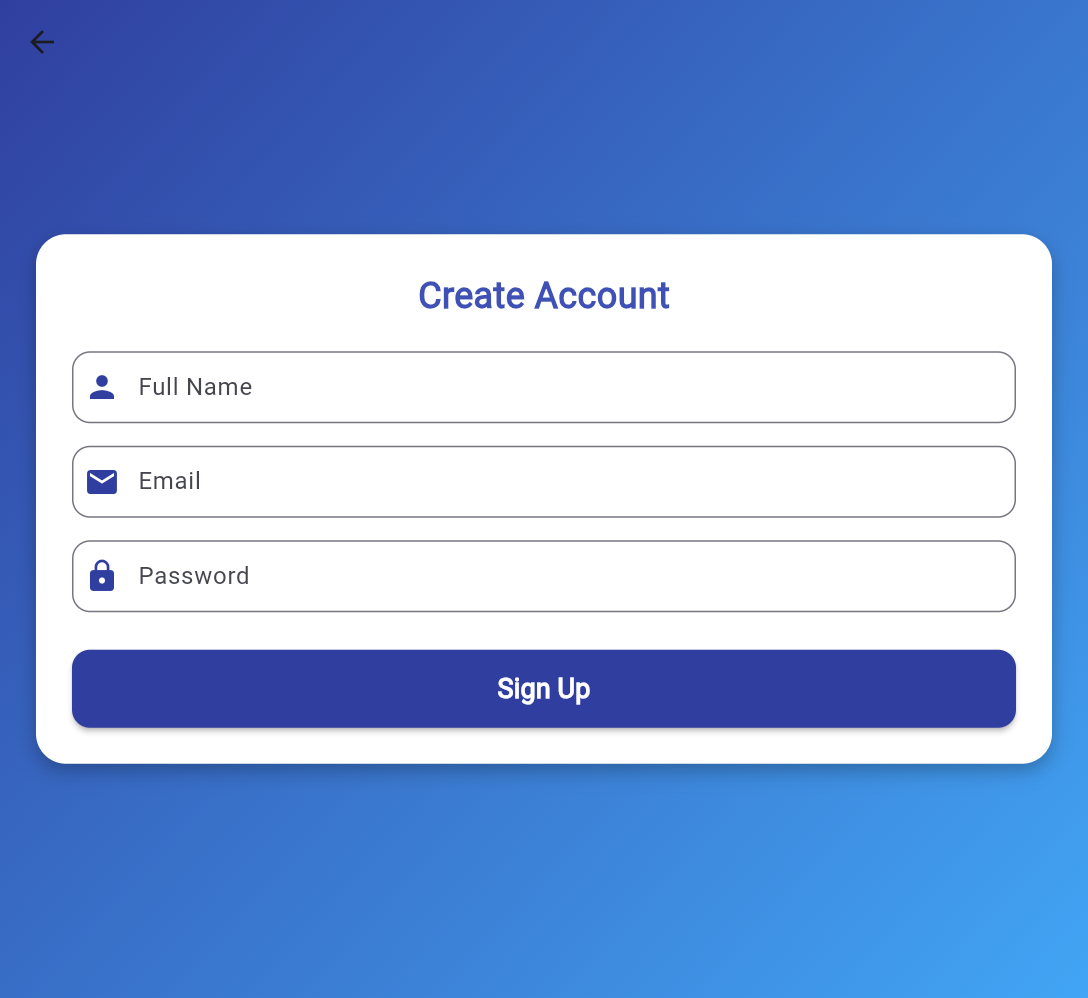
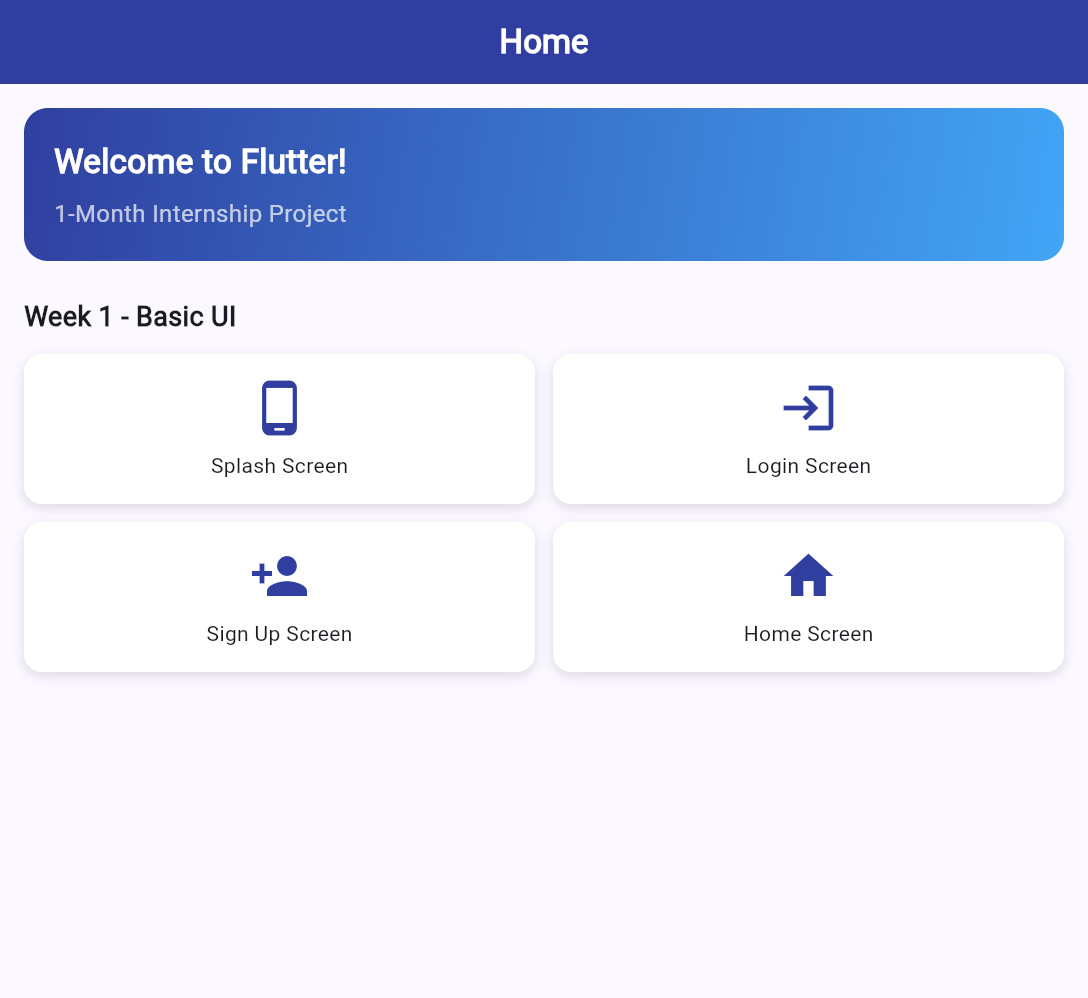
Updated screenshots with correct names from user

diff --git a/README.md b/README.md
@@ -83,9 +83,9 @@ flutter run
 
 ## 📸 Screenshots
 
-| Splash Screen | Login Screen | Sign Up Screen | Home Screen |
-|:---:|:---:|:---:|:---:|
-| ![Splash](screenshots/splash.png) | ![Login](screenshots/login.png) | ![Sign Up](screenshots/signup.png) | ![Home](screenshots/home.png) |
+| Login Screen | Sign Up Screen | Home Screen |
+|:---:|:---:|:---:|
+| ![Login](screenshots/login.png) | ![Sign Up](screenshots/signup.png) | ![Home](screenshots/Home.png) |
 
 ## 👩💻 Author
 
